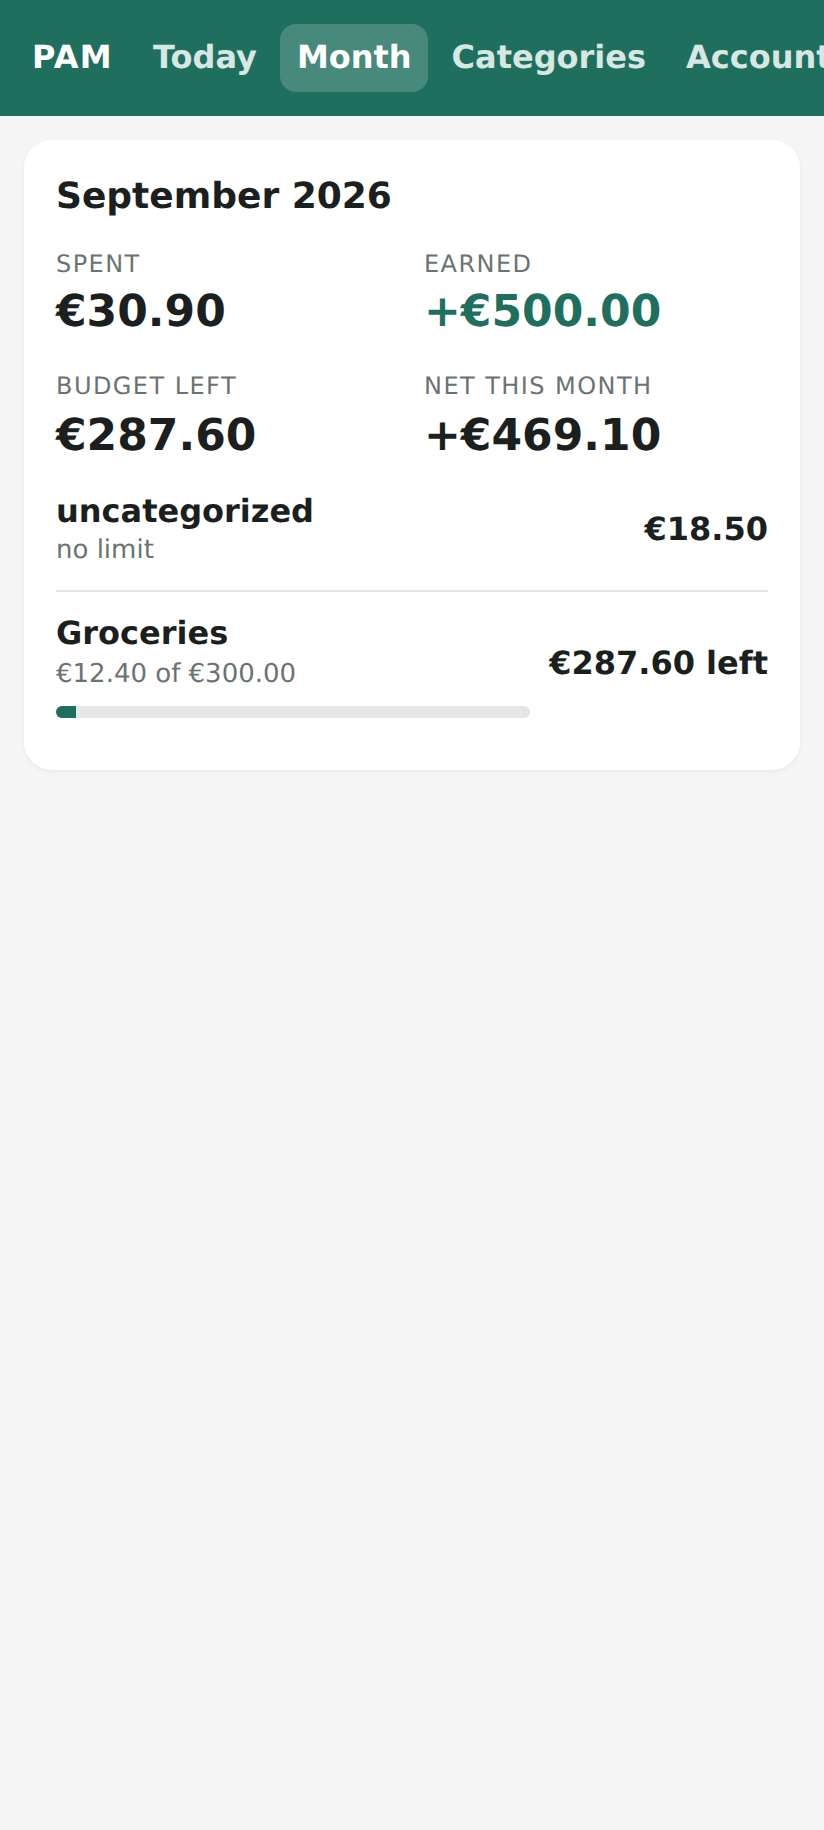
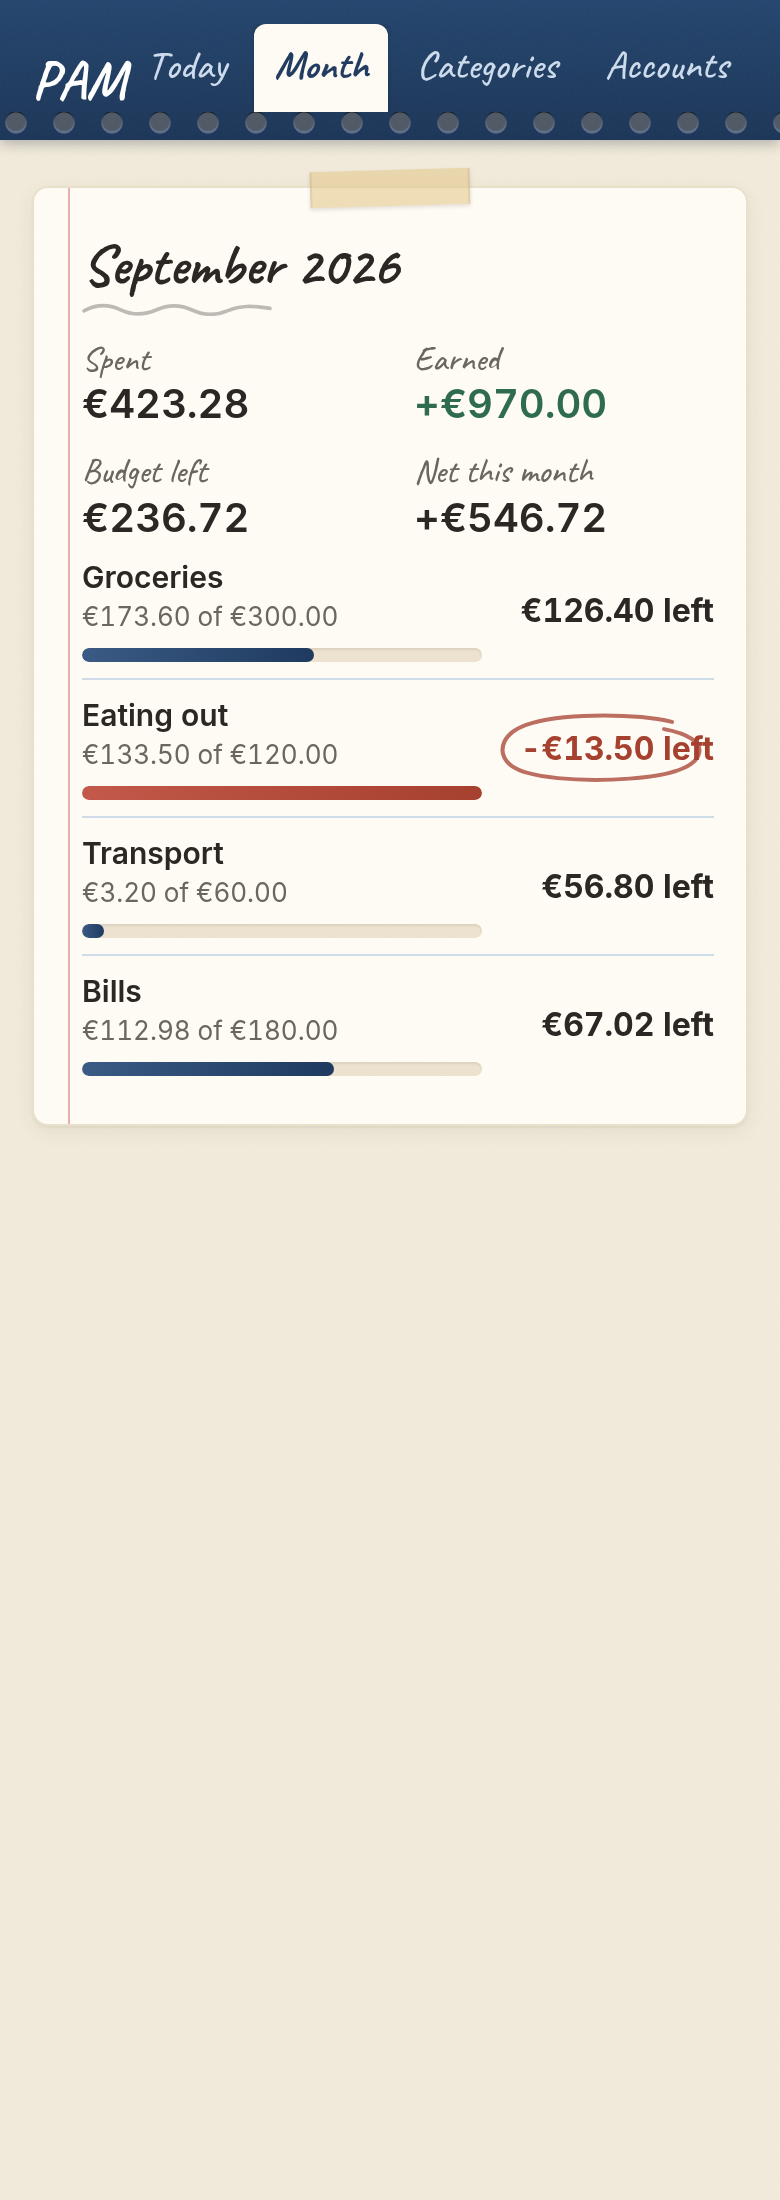
feat: restyle the app as a paper notebook, light and dark
Rewrite the stylesheet around semantic tokens with a leather-bound dark
theme: paper grain, a red margin rule, washi tape that varies per card,
and a spiral binding on the cover. Caveat is limited to titles, labels,
pills and buttons; every figure and row title is Inter with tabular
figures, so the fixed 104px amount column and the progress bars line up
across rows. Hand-drawn SVG masks carry the title squiggle, the circle
around an overspent amount, the achieved tick and the delete cross.
Motion stays under 250ms and yields to prefers-reduced-motion.

Contrast for twelve text styles was measured in-browser against the
composited background in both themes; the worst case is 5.56:1.

Style guide in docs/STYLE.md; screenshots refreshed.

Note: the preceding bug-fix commit unintentionally carried the first
half of this work (fonts.css, index.html, icon, manifest) because it was
staged with `git add -A` mid-phase.

Claude-Session: https://claude.ai/code/session_01RQk58Ns6aaHKPqYvFcDsTA

diff --git a/app/static/styles.css b/app/static/styles.css
@@ -23,6 +23,13 @@
   --green: #2f6b4f;         /* income, on track */
   --brick: #a6402f;         /* overspent, destructive */
 
+  /* Filled surfaces need their own pair: the accent that reads well as text
+     on paper is not the one that reads well behind text. */
+  --accent-bg: #1f3a5f;
+  --accent-fg: #fdfaf2;
+  --green-bg: #2f6b4f;
+  --green-fg: #f4fbf7;
+
   /* Lines and fills */
   --rule: #cfdce9;          /* ruled line */
   --margin-rule: #e6b0aa;   /* the red margin ruled down the left */
@@ -61,6 +68,11 @@
     --green: #86bb9c;
     --brick: #e0897c;
 
+    --accent-bg: #2f5480;
+    --accent-fg: #f3ece0;
+    --green-bg: #2f6048;
+    --green-fg: #eaf6ef;
+
     --rule: #3b332a;
     --margin-rule: #6b423c;
     --track: #322a22;
@@ -97,7 +109,8 @@ body::before {
   display: flex; align-items: flex-end; gap: var(--s3);
   padding: var(--s3) var(--s4) 14px;
   padding-top: calc(var(--s3) + env(safe-area-inset-top));
-  background: linear-gradient(180deg, var(--cover-hi), var(--cover));
+  background-color: var(--cover);
+  background-image: linear-gradient(180deg, var(--cover-hi), var(--cover));
   color: #fff; overflow: hidden;
   box-shadow: 0 2px 6px rgba(20, 30, 45, .28);
 }
@@ -267,7 +280,7 @@ button {
   box-shadow: 0 1px 0 rgba(63, 52, 33, .12);
 }
 button:active { transform: translateY(1px); box-shadow: inset 0 1px 2px rgba(63, 52, 33, .18); }
-button.primary { background: var(--ink-blue); border-color: var(--ink-blue); color: #fdfaf2; }
+button.primary { background: var(--accent-bg); border-color: var(--accent-bg); color: var(--accent-fg); }
 button:disabled { opacity: .55; }
 button.danger { width: 100%; color: var(--brick); border-color: var(--brick); background: var(--field); }
 
@@ -279,7 +292,7 @@ button.danger { width: 100%; color: var(--brick); border-color: var(--brick); ba
   flex: 1; border: 0; border-radius: 0; box-shadow: none;
   background: transparent; color: var(--pencil); font-weight: 500;
 }
-.segmented button.active { background: var(--ink-blue); color: #fdfaf2; font-weight: 700; }
+.segmented button.active { background: var(--accent-bg); color: var(--accent-fg); font-weight: 700; }
 
 /* ---------- lists ----------------------------------------------------- */
 
@@ -310,11 +323,11 @@ button.danger { width: 100%; color: var(--brick); border-color: var(--brick); ba
 .list .amount.over, .split .remaining.over {
   color: var(--brick);
 }
-.list .amount.over {
-  position: relative; padding: 2px 10px; margin-right: -4px;
-}
+/* The circle is drawn around the figure as an overlay, so it never changes
+   the width of the amount column and the rows stay aligned. */
+.list .amount.over { position: relative; }
 .list .amount.over::after {
-  content: ""; position: absolute; inset: -3px -2px;
+  content: ""; position: absolute; inset: -6px -6px; pointer-events: none;
   background: var(--brick); opacity: .75;
   -webkit-mask: var(--circle-doodle) center / 100% 100% no-repeat;
   mask: var(--circle-doodle) center / 100% 100% no-repeat;
@@ -368,7 +381,7 @@ button.danger { width: 100%; color: var(--brick); border-color: var(--brick); ba
 .status.behind { background: color-mix(in srgb, var(--brick) 16%, transparent); color: var(--brick); }
 .status.achieved {
   display: inline-flex; align-items: center; gap: 5px;
-  background: var(--green); color: #fdfaf2;
+  background: var(--green-bg); color: var(--green-fg);
 }
 /* A ticked-off item gets a checkmark doodle. */
 .status.achieved::before {

diff --git a/docs/STYLE.md b/docs/STYLE.md
@@ -1,0 +1,124 @@
+# PAM — visual style
+
+A warm, well-kept paper notebook. The notebook is a **skin**: grain, tape,
+spiral and ruled lines all sit behind the content and never cost legibility or
+tap comfort. Every rule below lives in `app/static/styles.css` as a token or a
+single component block, so changing the look means changing values, not markup.
+
+## Principles
+
+1. **Handwriting is decoration, never data.** Caveat is used for page titles,
+   section labels, status pills, buttons and empty states. Every figure, every
+   row title and every secondary amount is Inter with tabular figures, because
+   handwritten digits are ambiguous and money must not be.
+2. **One dominant number per card.** The balance is 42px; the four supporting
+   figures are 20px; row amounts are 16px. The eye should land once.
+3. **Columns, not guesses.** Amounts sit in a fixed 104px right-aligned column,
+   so every amount and every progress bar starts and ends on the same pixel.
+4. **Nothing decorative may move layout.** The overspend circle, the tape and
+   the grain are overlays drawn outside the flow.
+
+## Colour
+
+Semantic tokens only; no component hardcodes a hex value. Dark mode is the same
+notebook bound in leather, switched by `prefers-color-scheme`.
+
+| Token | Light | Dark | Used for |
+|---|---|---|---|
+| `--desk` | `#f2ebdb` | `#17130f` | Page behind the paper |
+| `--page` | `#fffcf5` | `#241e18` | Card / paper |
+| `--page-edge` | `#e9e0cc` | `#3a3129` | Paper border |
+| `--cover` / `--cover-hi` | `#1b3557` / `#24456e` | `#14263d` / `#1c3454` | Header cover |
+| `--ink` | `#2a2724` | `#f1e7d7` | Body text (warm grey, never pure black) |
+| `--ink-blue` | `#1f3a5f` | `#9dbce0` | Accent **text**, bar fill |
+| `--pencil` | `#6b665e` | `#a79d8e` | Secondary text |
+| `--green` | `#2f6b4f` | `#86bb9c` | Income, on track |
+| `--brick` | `#a6402f` | `#e0897c` | Overspent, destructive (red pencil, never pure red) |
+| `--accent-bg` / `--accent-fg` | `#1f3a5f` / `#fdfaf2` | `#2f5480` / `#f3ece0` | Filled controls |
+| `--green-bg` / `--green-fg` | `#2f6b4f` / `#f4fbf7` | `#2f6048` / `#eaf6ef` | Achieved pill |
+| `--rule` | `#cfdce9` | `#3b332a` | Ruled divider between rows |
+| `--margin-rule` | `#e6b0aa` | `#6b423c` | The red margin down the left |
+| `--track` | `#ece2cf` | `#322a22` | Progress track (bare paper) |
+| `--field` / `--field-line` | `#ffffff` / `#c3b9a4` | `#2c251e` / `#4b4036` | Inputs |
+
+An accent that reads well **as text on paper** is not the one that reads well
+**behind text**, which is why `--ink-blue` and `--accent-bg` are separate.
+
+### Measured contrast
+
+Checked in the browser against the actual composited background, both themes:
+
+| Element | Light | Dark | Required |
+|---|---|---|---|
+| Balance, row title, heading | 14.5 | 13.5 | 3.0 |
+| Labels, row subtitle, amount, note | 5.6 | 6.2 | 4.5 |
+| Primary button, active segment | 11.0 | 6.6 | 3.0 |
+| Active / inactive tab | 11.2 / 8.9 | 8.4 / 11.0 | 3.0 / 4.5 |
+| Account chip | 5.7 | 5.7 | 4.5 |
+
+## Type
+
+| Role | Font | Size / weight | Notes |
+|---|---|---|---|
+| Brand | Caveat | 27 / 700 | Header only |
+| Page & section title | Caveat | 28 / 700 | Squiggle underline |
+| Section label (`.label`) | Caveat | 17 / 500 | "Spent", "Budget left" |
+| Status pill, buttons, empty state | Caveat | 16–20 / 700 | No digits ever |
+| Balance | Inter | 42 / 700 | `letter-spacing: -.025em` |
+| Supporting figures | Inter | 20 / 600 | |
+| Row amount | Inter | 16 / 700 | Fixed 104px column |
+| Row title | Inter | 15 / 600 | Truncates with ellipsis |
+| Row subtitle, note, per-day | Inter | 13 / 400 | Carries money, so never handwriting |
+
+`font-variant-numeric: tabular-nums` is set on `body`, so digits never shuffle
+as values change. Both families are subsetted and embedded as base64 in
+`app/static/fonts.css` (184 KB): no third-party request, works offline.
+
+## Spacing
+
+An 8px grid: `--s1: 4`, `--s2: 8`, `--s3: 12`, `--s4: 16`, `--s5: 24`, `--s6: 32`.
+Page padding is 16px; cards are 16px apart; card padding is 24px top, 16px right
+and bottom, 24px left to clear the margin rule. Minimum touch target is 44px
+(`--tap`) and it is enforced on buttons, inputs, selects, nav tabs and row
+delete targets.
+
+## Components
+
+- **Cover (`.topbar`)** — deep ink-blue gradient, grain overlay, and a spiral
+  strip along the bottom edge drawn as two stacked radial gradients: a dark
+  punched hole plus a lit lower lip.
+- **Tab (`.tabs button`)** — Caveat, 44px tall. The active one is a divider
+  pulled out of the pages: paper-coloured, top corners rounded, lifted shadow.
+- **Page (`.card`)** — paper colour with the red margin rule ruled straight into
+  the background, a grain layer behind the text, and a strip of washi tape on
+  top. Tape angle and colour rotate across three variants by `nth-of-type`.
+- **Row (`.list li`)** — 44px minimum, divided by a ruled line, never a plain
+  border. Title, then subtitle; amount in the fixed column; a 44px delete target
+  drawn as a pen stroke cross.
+- **Amount** — right-aligned, tabular. Income is green with a leading `+`.
+  Overspent is brick red and gets a hand-drawn circle around it, drawn as a
+  masked SVG overlay so the column stays aligned.
+- **Progress (`.bar`)** — 7px, paper-coloured track with an inset shadow, fill
+  as an ink stroke that darkens left to right and turns brick when over budget.
+- **Status pill** — Caveat on a 16% tint of its own colour; `achieved` is solid
+  green and gains a checkmark doodle.
+- **Field** — a ruled blank: no box, a 1.5px baseline that turns ink-blue on
+  focus. Selects keep a full border because they carry a chevron.
+
+## Motion
+
+All under 250ms, and all disabled under `prefers-reduced-motion: reduce`.
+
+| Where | What |
+|---|---|
+| View change | `page-turn`: 220ms, a 3.5° Y-rotation with a 6px lift, so switching months feels like turning a page |
+| Progress bars | `ink-fill`: 240ms `scaleX` from the left, like a stroke being drawn |
+| Buttons | 120ms press: 1px down plus an inset shadow, as if pressing into paper |
+| Toast | 180ms lift from below |
+
+## Hand-drawn assets
+
+Three inline SVGs, held as tokens so any element can mask them: `--squiggle`
+(title underline), `--circle-doodle` (overspent amount), `--tick-doodle`
+(achieved), plus `--cross-doodle` for delete. They are masks, not images, so
+they inherit the current colour and adapt to both themes.

diff --git a/PROGRESS.md b/PROGRESS.md
@@ -159,3 +159,40 @@ Build order follows `finance-tracker-spec.md` section 6. One phase per commit.
 **Verified:** live curl: 30-day target €300 above balance → €10.00/day; €60 income → €8.00/day, on track; PATCH amount down → achieved; end before start → 422; summary carries targets. Headless walkthrough: set target, per-day figure drops after adding income, status chip renders. Suite green.
 
 **Known gaps:** targets are balance-based only (the owner's choice); an "earned since start" variant would be one enum field. No edit form in the app; PATCH exists in the API.
+
+## Phase 14 — Notebook restyle
+
+**Status:** done, awaiting owner verification on the phone
+
+**Delivered:** `app/static/styles.css` rewritten around semantic tokens with a
+light and a dark theme (`prefers-color-scheme`), plus `app/static/fonts.css`:
+Inter (400/600/700) and Caveat (500/700), subsetted to the characters the app
+renders and embedded as base64, 184 KB, no third-party request. Handwriting is
+restricted to titles, labels, status pills, buttons and empty states; every
+figure, row title and secondary amount is Inter with tabular figures. Paper
+grain, a red margin rule, washi tape that varies by card, and a spiral binding
+with a punched-hole shadow on the cover. Hand-drawn SVG masks for the title
+squiggle, the circle around an overspent amount, the achieved checkmark and the
+delete cross. Motion under 250ms: page-turn on view change, ink-fill on bars,
+a press state on buttons, all off under `prefers-reduced-motion`. Icon, manifest
+colours and the two `theme-color` metas updated. Style guide in `docs/STYLE.md`.
+
+**Verified in the browser at 390px, both themes:** every amount column starts at
+the same pixel (253.1) and every progress bar is the same width (198.6); the
+smallest control is 44px; no horizontal overflow; twelve text styles measured
+against their composited background all clear WCAG AA (worst case 5.56 light,
+5.65 dark). The full functional walkthrough still passes end to end with no
+console errors, and the suite is green.
+
+**Known gaps:** no in-app theme toggle, the theme follows the system. The
+month-change animation is the generic view transition, not a true page flip.
+
+## Fix — default account identified by a flag
+
+Found while seeding demo data for the restyle: renaming the seeded "General"
+account to a real bank name broke every expense or income created without an
+explicit account, because the fallback was looked up by that literal name and
+raised, surfacing as a 500. Accounts now carry `is_default`, set at
+registration and backfilled by migration `cdf791184e60` for the oldest account
+of each existing user; the delete guard and the client's protected row read the
+flag. Regression test added.

diff --git a/README.md b/README.md
@@ -7,10 +7,13 @@ Type "SuperValu €12.40", get back `Groceries` and `12.40`. Record income, move
 **Live:** https://pam-u8qh.onrender.com/app/ (mobile web app) and https://pam-u8qh.onrender.com/docs (API). Free tier: the first request after 15 idle minutes takes about a minute to wake.
 
 <p>
-  <img src="docs/app-today.png" width="230" alt="Today: spent, quick add with suggested category, today's list">
-  <img src="docs/app-month.png" width="230" alt="Month: spend vs limit per category">
-  <img src="docs/app-accounts.png" width="230" alt="Accounts: balances, add, edit, delete">
+  <img src="docs/app-today.png" width="220" alt="Today: balance, quick add with suggested category, today's entries, targets">
+  <img src="docs/app-month.png" width="220" alt="Month: spend against each category limit, overspend circled">
+  <img src="docs/app-today-dark.png" width="220" alt="The same screen in dark mode">
 </p>
+
+Styled as a paper notebook, light and dark. The rules behind it are in
+[docs/STYLE.md](docs/STYLE.md).
 
 ## Stack
 
@@ -22,6 +25,7 @@ Type "SuperValu €12.40", get back `Groceries` and `12.40`. Record income, move
 | Auth | OAuth2 password flow, JWT (HS256), argon2id hashes | Standard flow, works with the Swagger "Authorize" button |
 | LLM | Any OpenAI-compatible chat endpoint | Provider is configuration, not code. Gemini free tier by default |
 | Client | Plain HTML/JS served at `/app`, installable PWA | Thin: every action is one API call. No framework, no build step |
+| Design | Hand-rolled CSS, subsetted embedded fonts | Notebook skin, light and dark, WCAG AA verified in-browser |
 | Tests | pytest, 127 tests, real Postgres | Separate `_test` database, LLM faked via dependency override |
 | Packaging | Dockerfile + docker-compose | One command from a clean clone |
 
